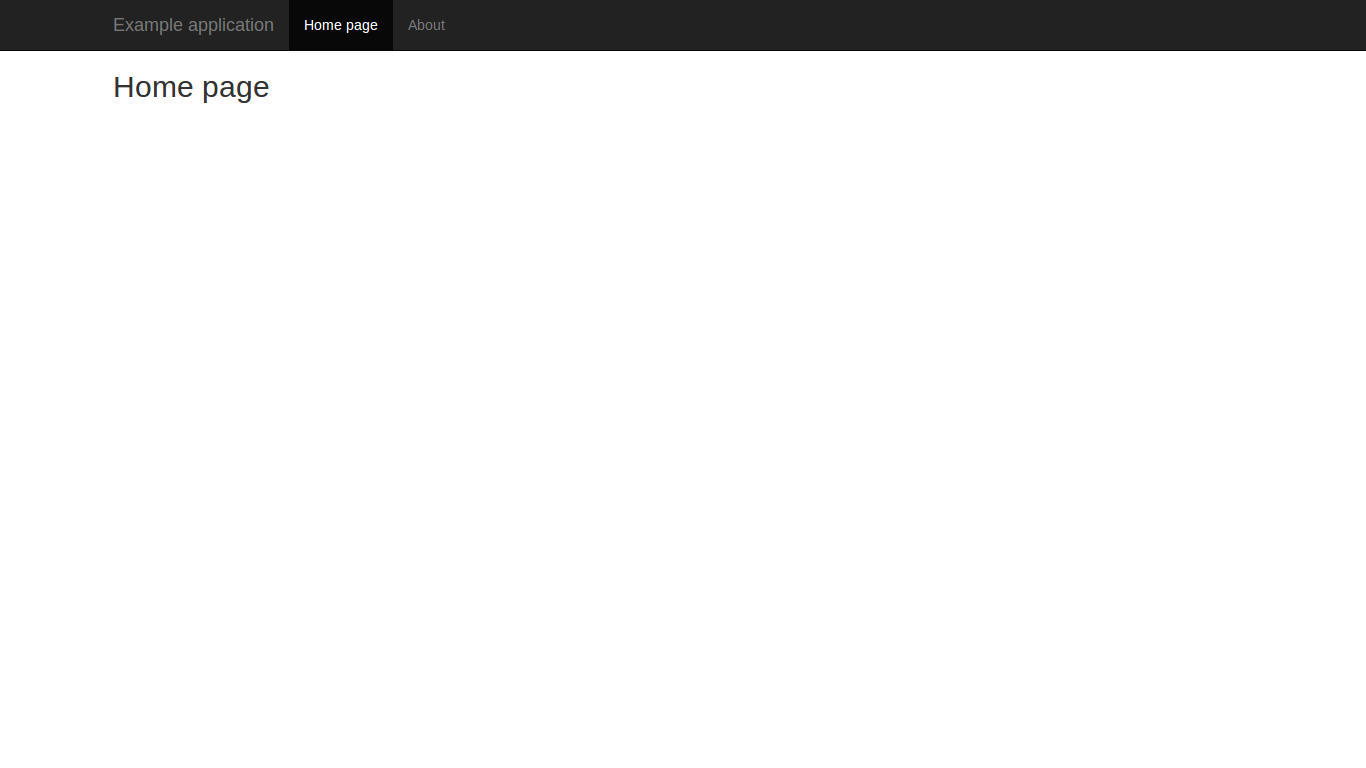
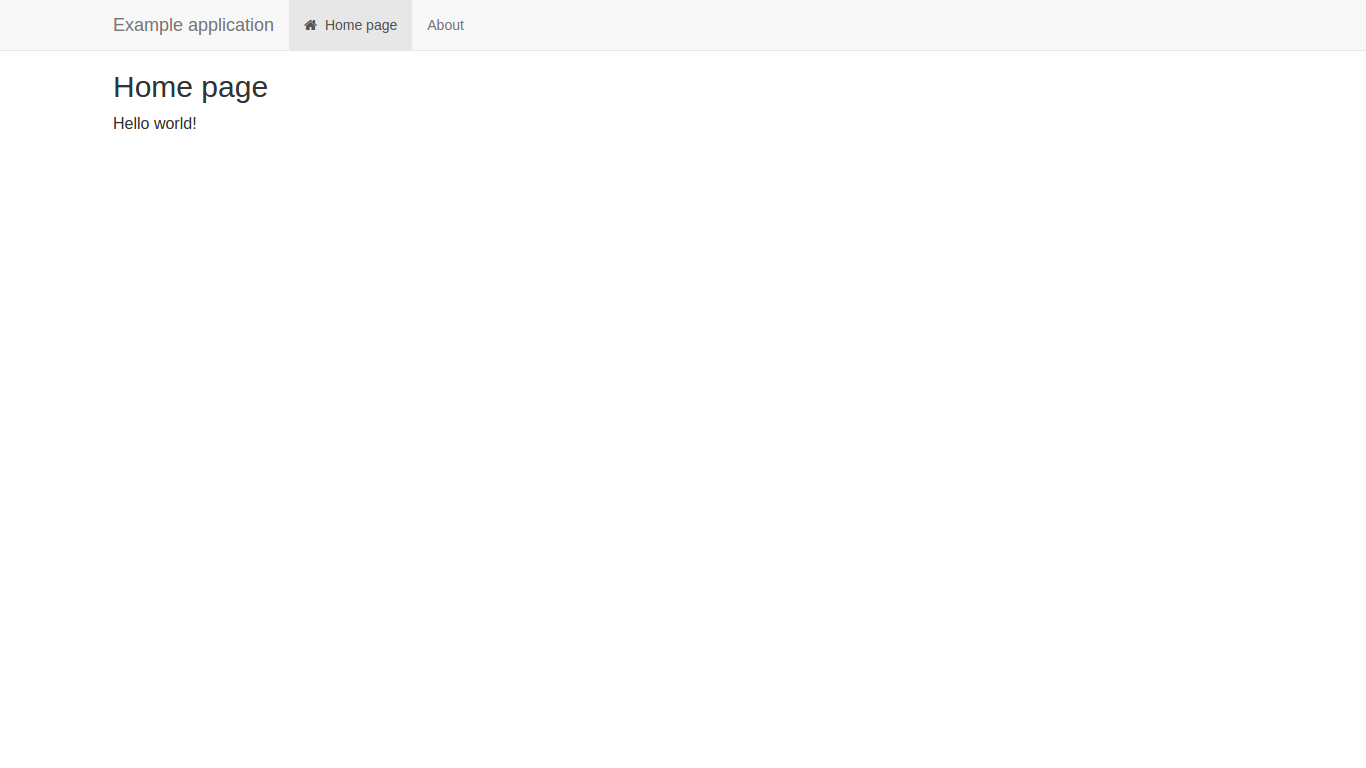
Version 0.9.27

Changed region(s): [[0.0, 0.0, 1.0, 0.125], [0.0922, 0.1562, 0.1537, 0.1875]]

diff --git a/files/jumbotron/jumbotron.html b/files/jumbotron/jumbotron.html
@@ -1,18 +1,14 @@
 <template name="TEMPLATE_NAME">
-	<div class="jumbotron">
-		<div class="container">
-			<h1 id="component-title">
-				<img id="jumbotron-image" src="images/cupcakes.svg" /><br />
-				COMPONENT_TITLE
-			</h1>
-			<p id="jumbotron-text">
-				<b>Code generator for <a href="https://www.meteor.com" target="_blank">Meteor.js</a></b><br />Less coding = more code
-			</p>
-			<p id="jumbotron-button">
-				<a href="{{pathFor 'getting_started'}}" class="btn btn-primary btn-lg" role="button">
-					Get started &raquo;
-				</a>
-			</p>
-		</div>
-	</div>
+	<h1 id="component-title">
+		<img id="jumbotron-image" src="images/cupcakes.svg" /><br />
+		COMPONENT_TITLE
+	</h1>
+	<p>
+		<b>Code generator for <a href="https://www.meteor.com" target="_blank">Meteor.js</a></b><br />Less coding = more code
+	</p>
+	<p>
+		<a href="{{pathFor 'getting_started'}}" class="btn btn-primary btn-lg" role="button">
+			Get started &raquo;
+		</a>
+	</p>
 </template>

diff --git a/files/styles.less b/files/styles.less
@@ -44,15 +44,6 @@
 
 .jumbotron {
 	text-align: center;
-
-	background: url(images/jumbotron-bg.png) no-repeat center center fixed; 
-	-webkit-background-size: cover;
-	-moz-background-size: cover;
-	-o-background-size: cover;
-	background-size: cover;
-}
-
-.jumbotron .container {
 	background-color: rgba(0,0,0,0.5);
 }
 
@@ -75,7 +66,7 @@
 }
 
 .navbar-spacer {
-	height: 40px;
+	height: 60px;
 }
 
 .td-icon .fa {
@@ -87,5 +78,5 @@
 }
 
 .sidebar {
-	top: 41px;
+	top: 61px;
 }

diff --git a/files/api_reference.md b/files/api_reference.md
@@ -582,7 +582,7 @@ query | [query](#query) | Query to be added to Template data context
 components | array of [component](#component) | Component list
 template\_rendered\_code | string | Code to be executed once template is rendered
 text | string | Text to be shown in jumbotron
-image\_url | string | Picture URL
+image\_url | string | Background image URL
 button\_title | string | Jumbotron button title
 button\_route | string | Destination route name
 button\_route\_params | array of [param](#param) | Parameters to be passed to destination route

diff --git a/files/getting_started.md b/files/getting_started.md
@@ -21,7 +21,7 @@ You **need** to have <a href="https://www.meteor.com" target="_blank">Meteor >=1
 I paused work on version for Windows until Meteor releases official version for Windows.
 
 
-Current version is 0.9.26
+Current version is 0.9.27
 =========================
 
 Click <a href="{{pathFor 'version_history'}}">here</a> to see version history.

diff --git a/files/version_history.md b/files/version_history.md
@@ -1,6 +1,16 @@
 Version History
 ===============
 
+0.9.27
+------
+
+- Changed "jumbotron" component - now you can set background image
+
+- Simplified input file for "one page site" example and added fancy header picture
+
+- Changed www.meteorkitchen.com visual theme to "bootswatch-darkly"
+
+
 0.9.26
 ------
 
